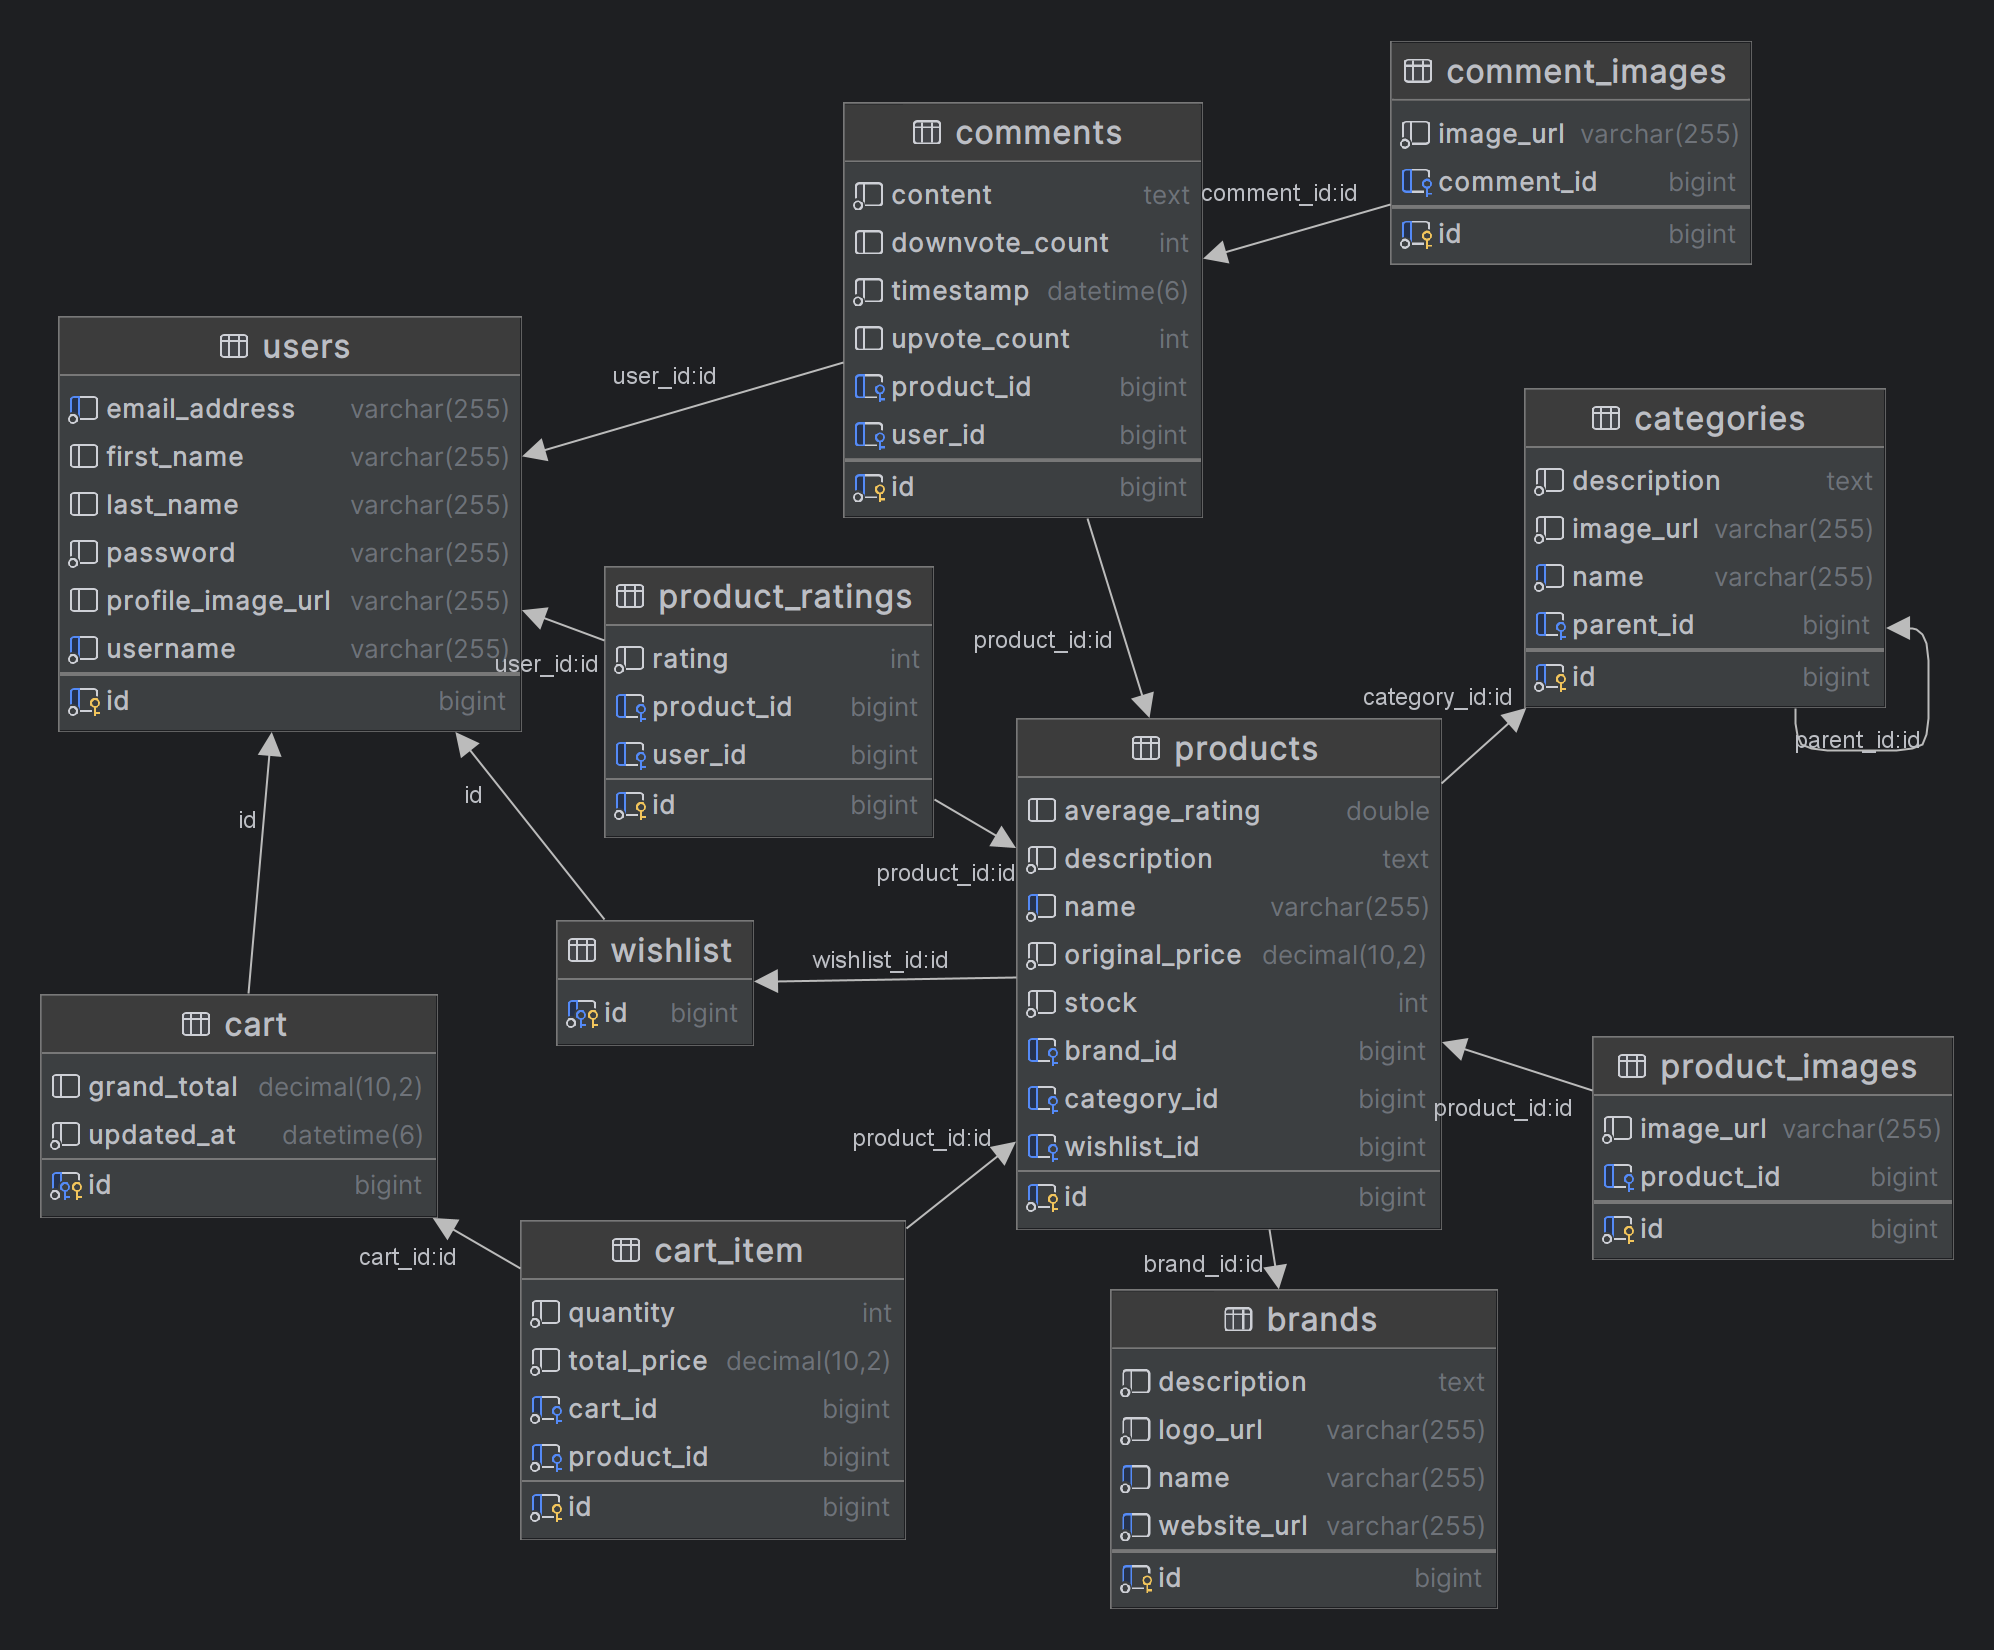
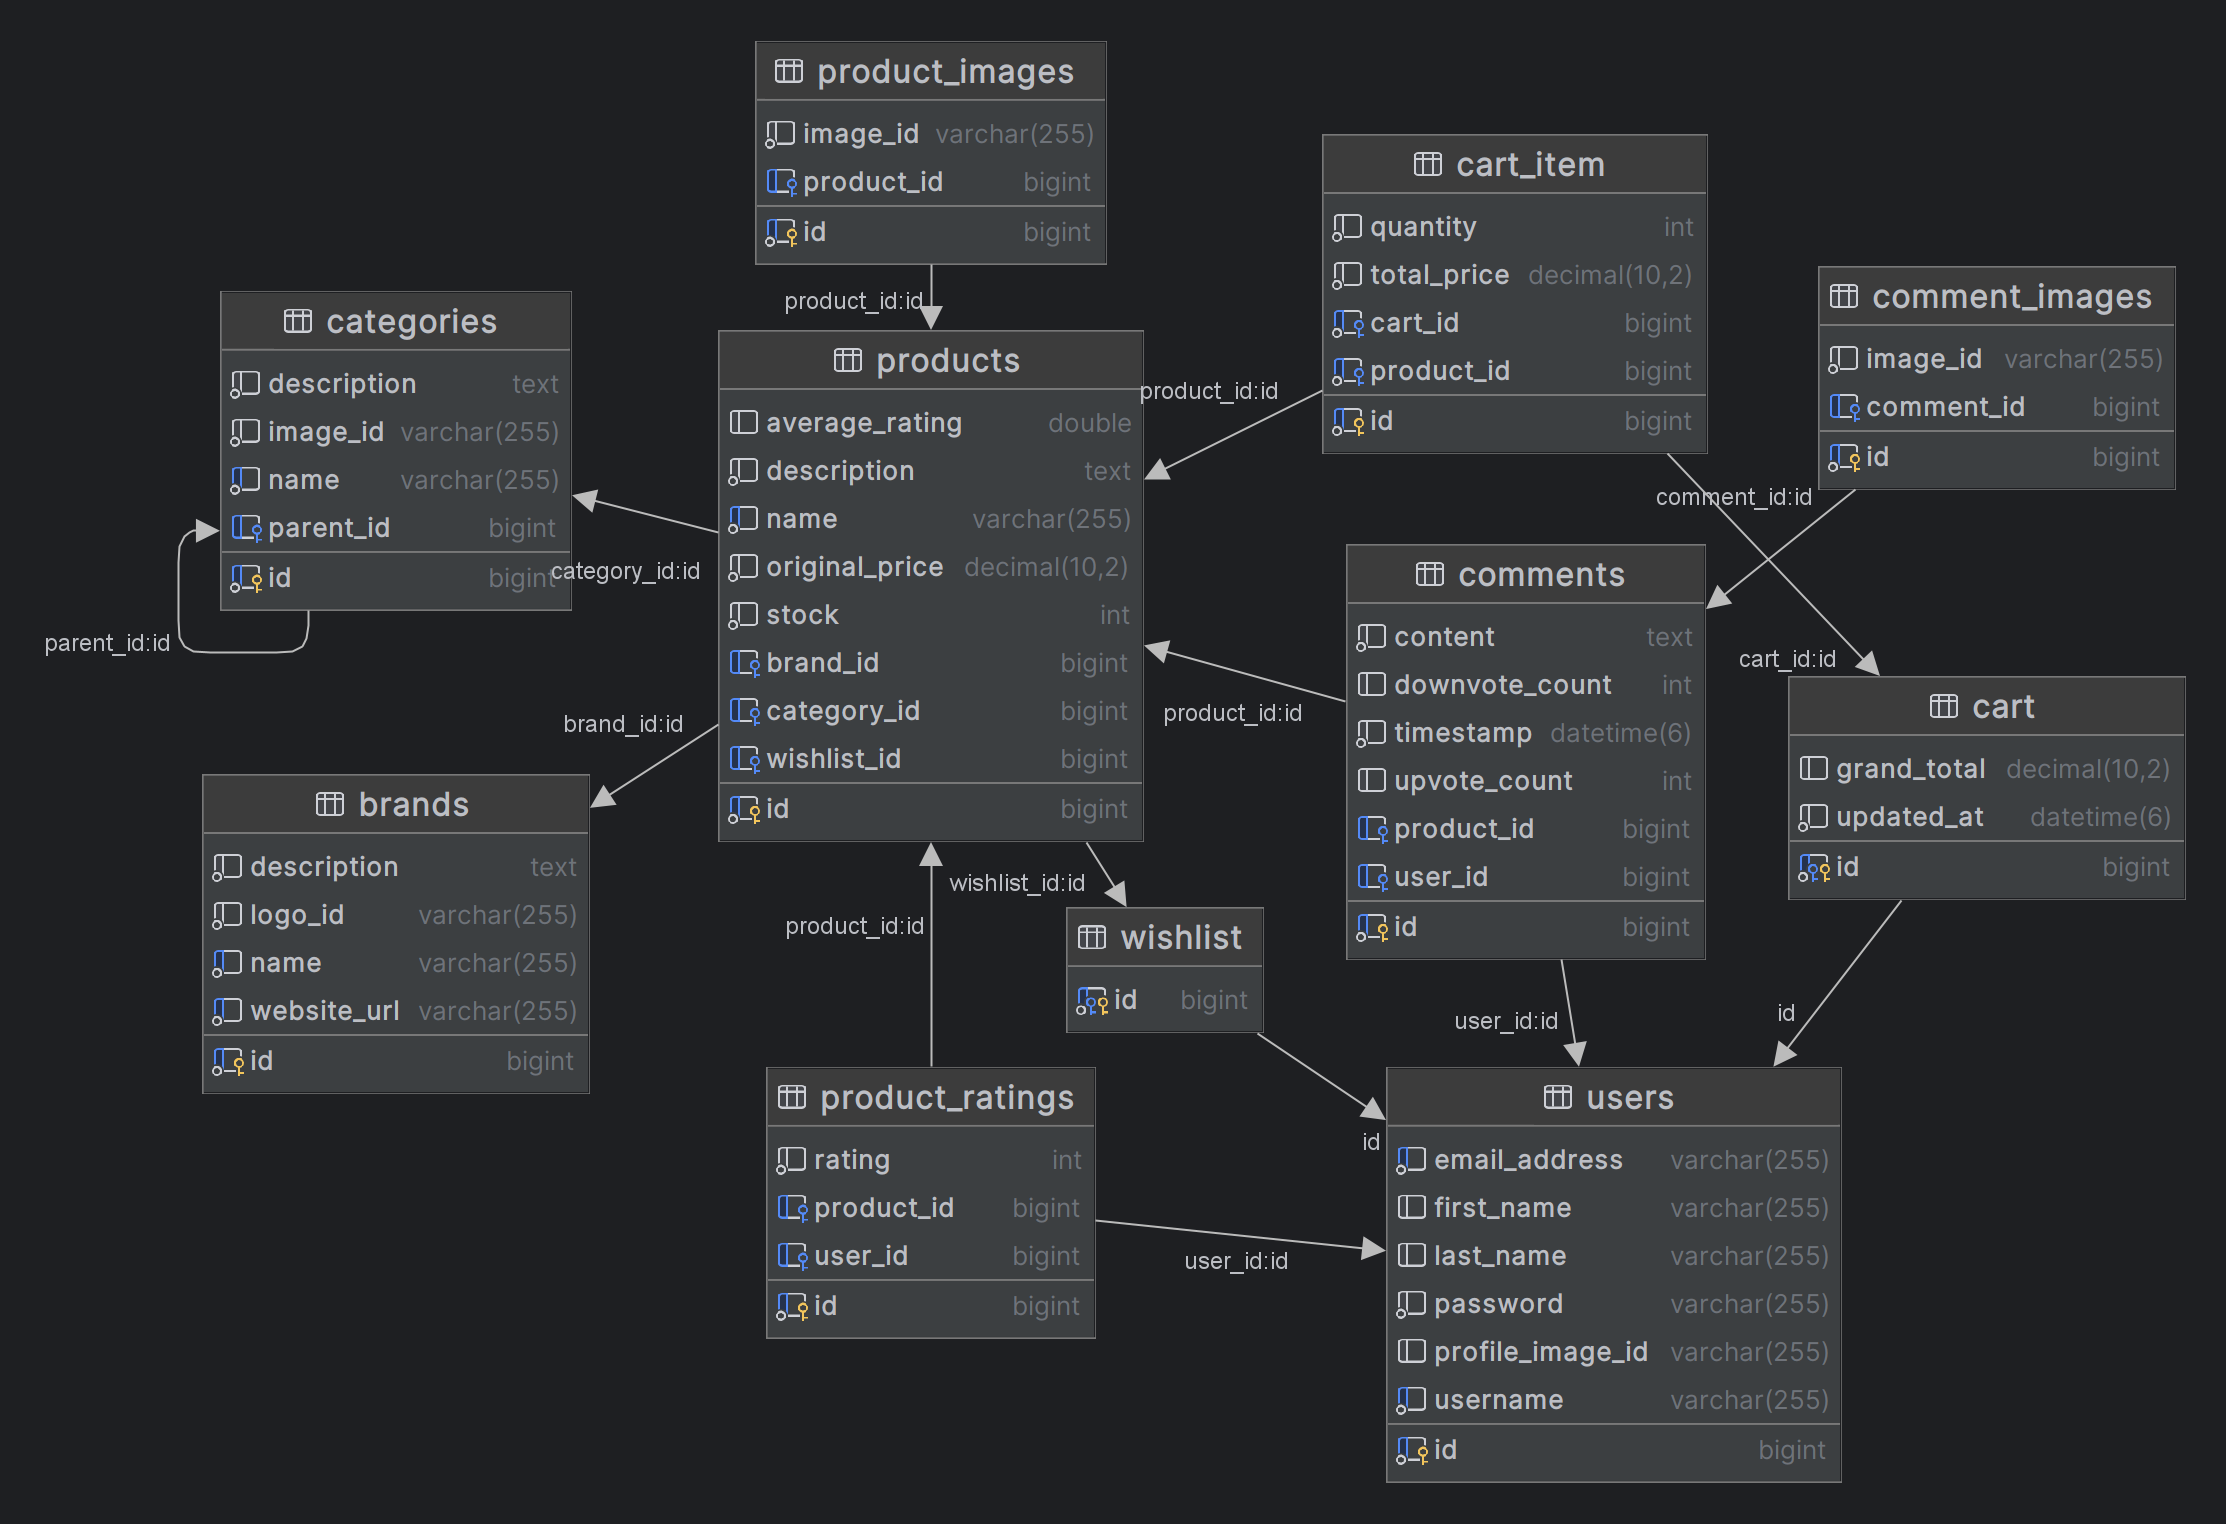
Replaced *url fields with *id. For Cloudinary purposes

diff --git a/src/main/java/com/techie/domain/entities/CommentImage.java b/src/main/java/com/techie/domain/entities/CommentImage.java
@@ -18,8 +18,8 @@ public class CommentImage {
     @JoinColumn(name = "comment_id")
     private Comment comment;
 
-    @Column(name = "image_url", nullable = false)
-    private String imageUrl;
+    @Column(name = "image_id", nullable = false)
+    private String imageId;   // Cloudinary public ID for the image;
 
     @Override
     public boolean equals(Object o) {

diff --git a/src/main/java/com/techie/domain/entities/User.java b/src/main/java/com/techie/domain/entities/User.java
@@ -33,7 +33,7 @@ public class User {
     @Column(name = "last_name")
     private String lastName;
 
-    @Column(name = "profile_image_url")
-    private String profileImageUrl;
+    @Column(name = "profile_image_id")
+    private String profileImageId;      // Cloudinary public ID for the image
 
 }

diff --git a/src/main/java/com/techie/domain/entities/Category.java b/src/main/java/com/techie/domain/entities/Category.java
@@ -17,7 +17,7 @@ public class Category {
     private String name;
 
     @Column(nullable = false)
-    private String imageUrl;
+    private String imageId;   // Cloudinary public ID for the image
 
     @Column(columnDefinition = "TEXT", nullable = false)
     private String description;

diff --git a/src/main/java/com/techie/domain/entities/Brand.java b/src/main/java/com/techie/domain/entities/Brand.java
@@ -21,7 +21,7 @@ public class Brand {
     private String description;
 
     @Column(nullable = false)
-    private String logoUrl;
+    private String logoId;   // Cloudinary public ID for the image
 
     @Column(nullable = false, unique = true)
     private String websiteUrl;

diff --git a/src/main/java/com/techie/domain/entities/ProductImage.java b/src/main/java/com/techie/domain/entities/ProductImage.java
@@ -18,7 +18,7 @@ public class ProductImage {
     private Product product;
 
     @Column(nullable = false)
-    private String imageUrl;
+    private String imageId;   // Cloudinary public ID for the image
 
     @Override
     public boolean equals(Object o) {
